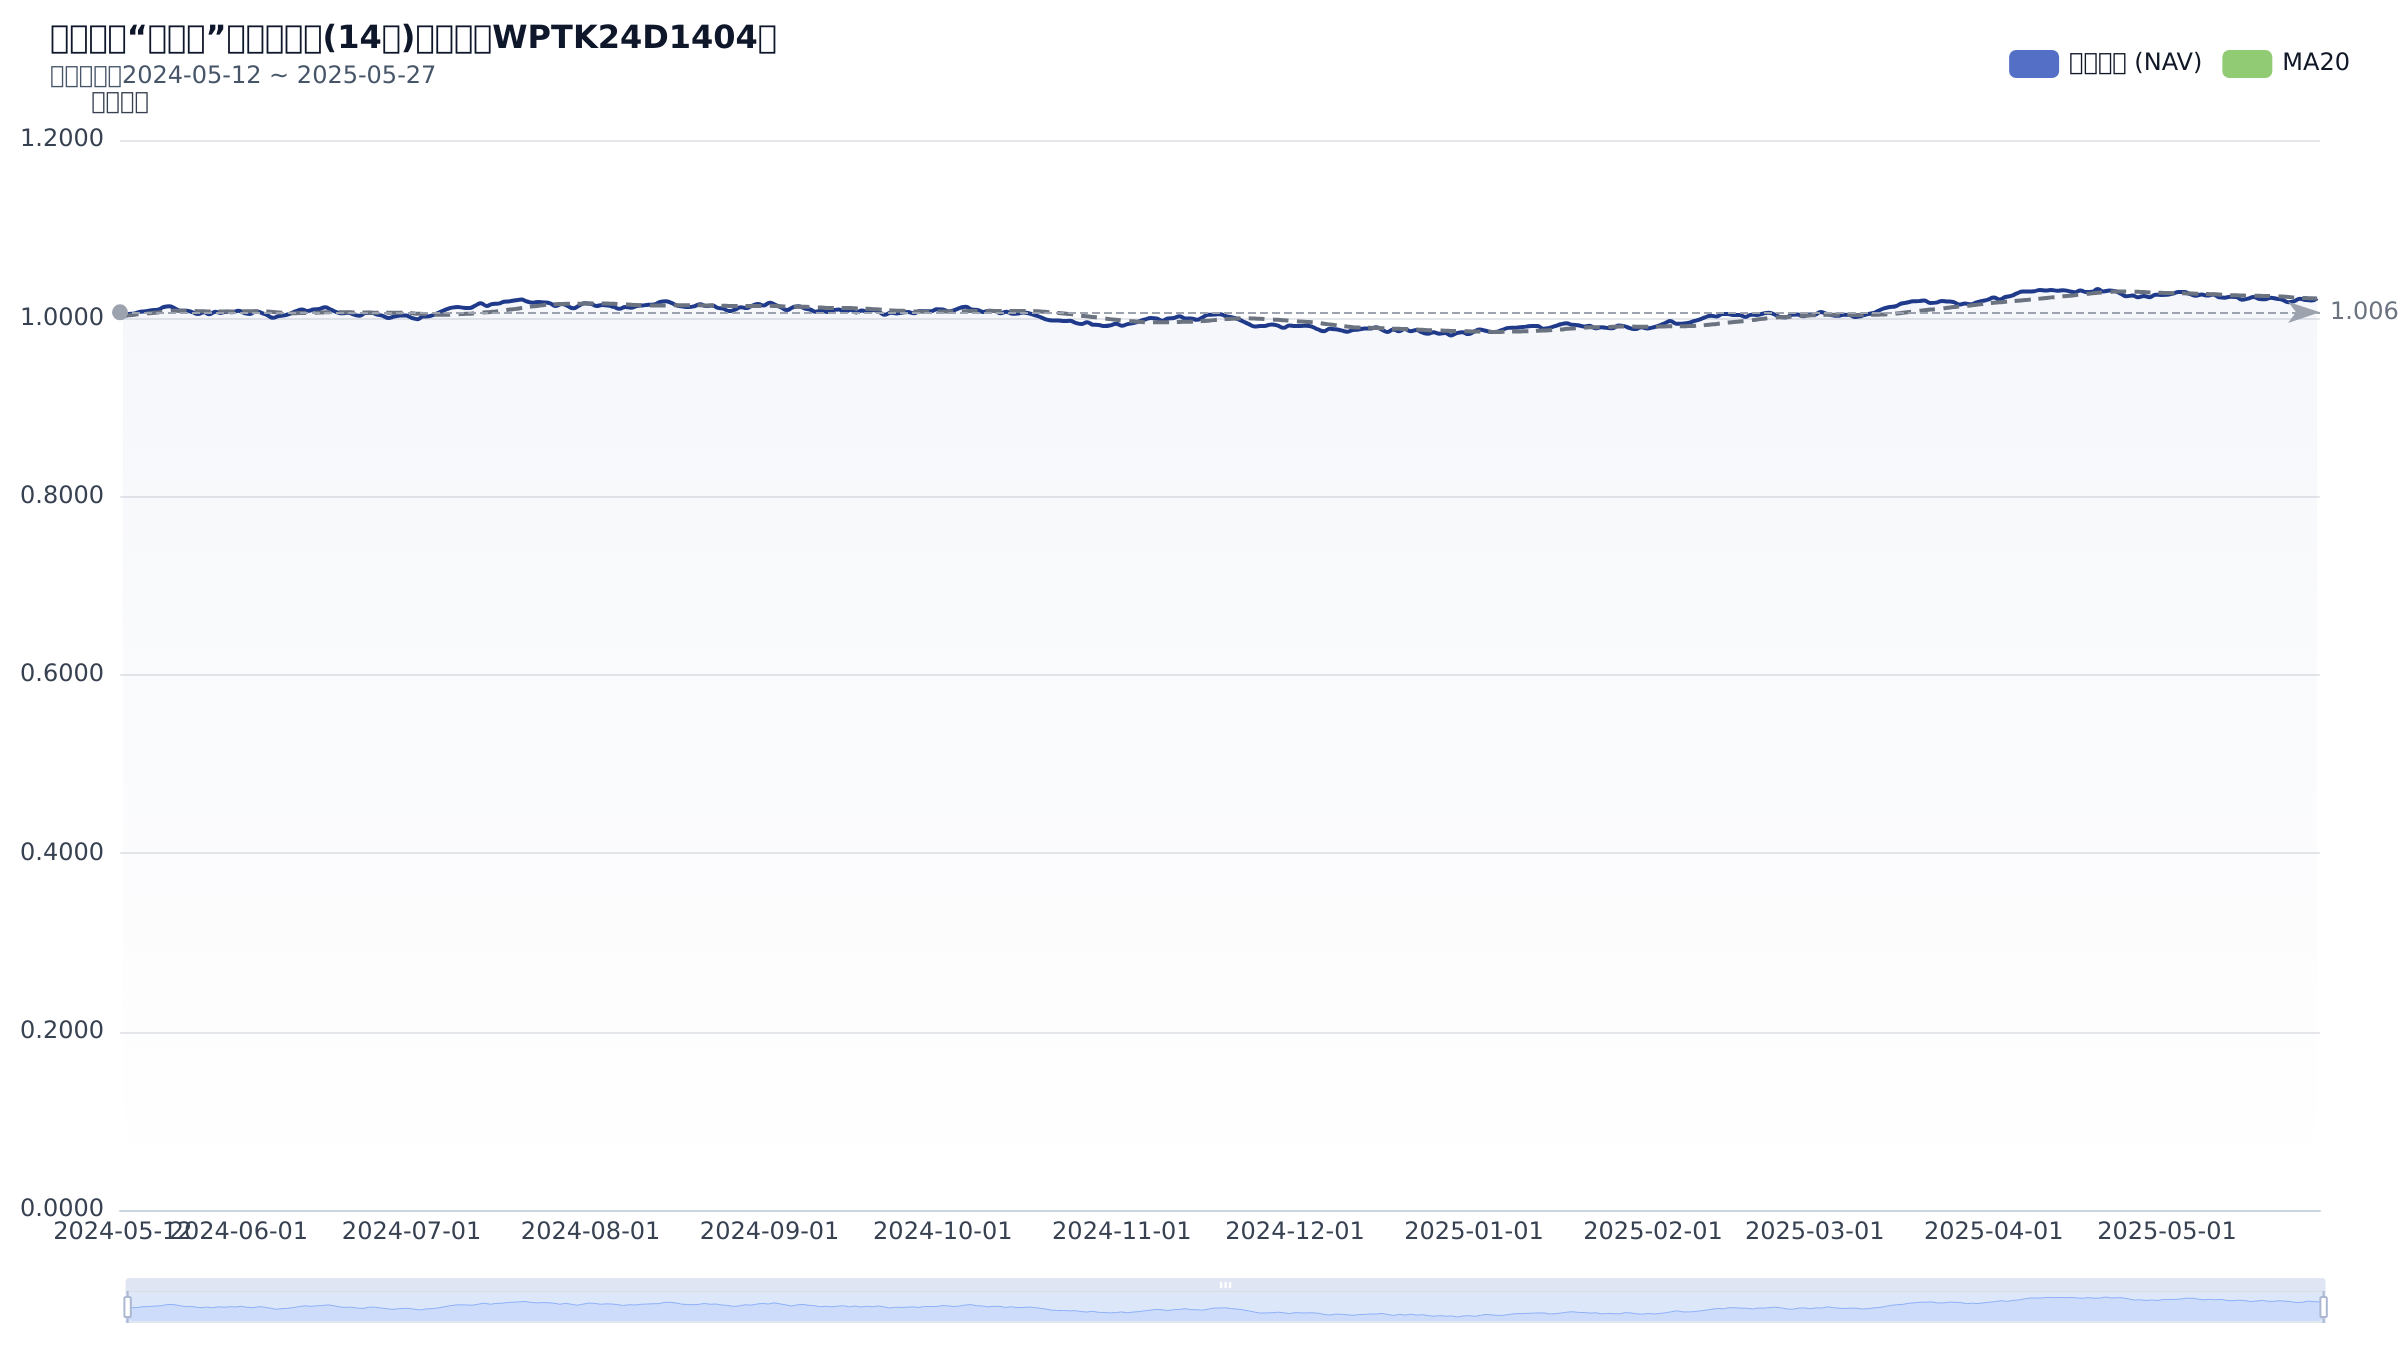
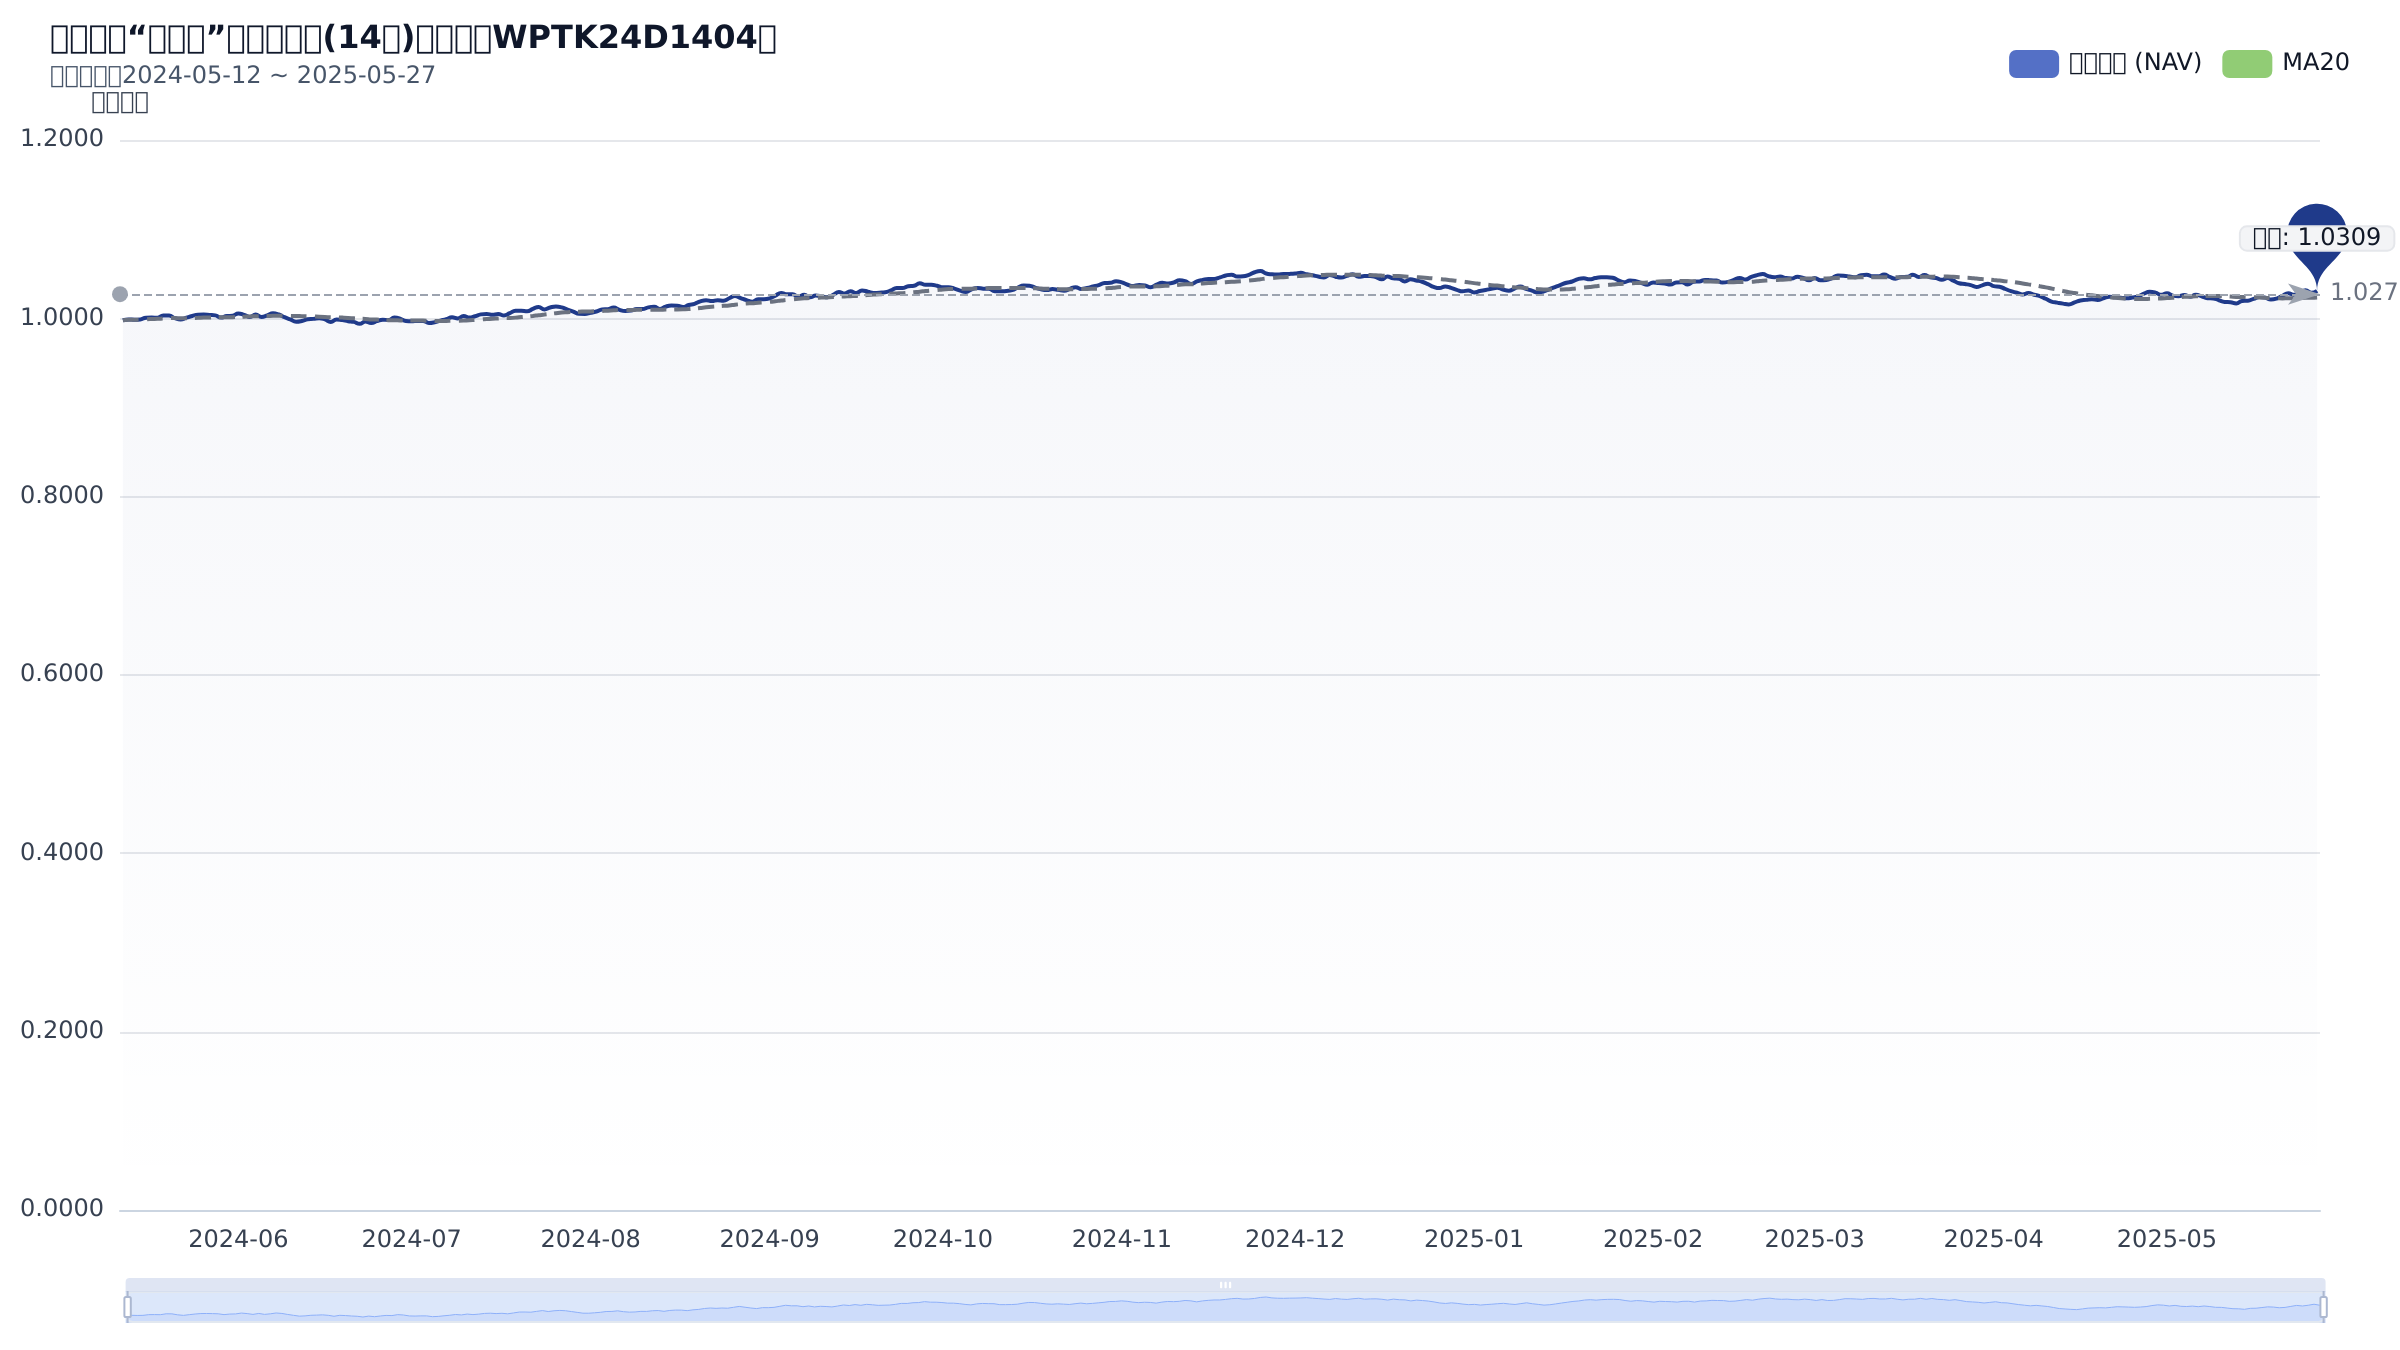
fix(fund_nav): monthly-first tick formatter; font readiness before capture; avoid origin tick clutter

diff --git a/scripts/render_fund_chart.js b/scripts/render_fund_chart.js
@@ -22,7 +22,7 @@ const puppeteer = require('puppeteer');
     function genSeriesByDates(dates, base, vol){ const arr=[]; let v=base; for(let i=0;i<dates.length;i++){ v=v*(1+(Math.random()-0.5)*vol); if(v<0.6) v = 0.6 + Math.random()*0.05; arr.push(Number(v.toFixed(4))); } return arr; }
     function ma(data, w){ const out=[]; for(let i=0;i<data.length;i++){ const s=Math.max(0,i-w+1); const seg=data.slice(s,i+1); const m=seg.reduce((a,b)=>a+b,0)/seg.length; out.push(Number(m.toFixed(4))); } return out; }
     function daterange(start, end){ const out=[]; const s=new Date(start), e=new Date(end); for(let d=new Date(s); d<=e; d.setDate(d.getDate()+1)){ out.push(d.toISOString().slice(0,10)); } return out; }
-    function monthTicks(labels){ const out=[]; let lastMonth=''; for(const d of labels){ const m=d.slice(0,7); if(m!==lastMonth){ out.push(d); lastMonth=m; } else out.push(''); } return out; }
+    // 使用完整日期作为类目，配合 formatter 仅在每月首日显示 YYYY-MM
     const productTitle = '上银理财“\u53cc周利”系列开放式(14天)理财产品WPTK24D1404期';
     const rangeText = '净值日期：2024-05-12 ~ 2025-05-27';
     const days = daterange('2024-05-12','2025-05-27');
@@ -38,7 +38,12 @@ const puppeteer = require('puppeteer');
       grid:{ left:60,right:40,top:70,bottom:70 },
       legend:{ data:['单位净值 (NAV)','MA20'], top: 20, right: 20, textStyle:{ color:'#111827' }, icon:'roundRect' },
       dataZoom:[{type:'inside'},{type:'slider',height:16,bottom:20,backgroundColor:'#f1f5f9', borderColor:'#e2e8f0'}],
-      xAxis:{ type:'category', data: monthTicks(days), axisLabel:{ color:'#374151', interval: 0, rotate: 0 }, axisLine:{ lineStyle:{ color:'#cbd5e1' } }, axisTick:{ show:false } },
+      xAxis:{ type:'category', data: days, boundaryGap: true,
+        axisLabel:{ color:'#374151', interval: 0, rotate: 0, margin: 12, hideOverlap: true,
+          showMinLabel: true, showMaxLabel: true,
+          formatter: function(value, idx){ return value && value.slice(8,10)==='01' ? value.slice(0,7) : ''; }
+        },
+        axisLine:{ lineStyle:{ color:'#cbd5e1' } }, axisTick:{ show:false } },
       yAxis:{ type:'value', name:'单位净值', nameTextStyle:{ color:'#374151' }, axisLabel:{ color:'#374151', formatter:(val)=> Number(val).toFixed(4) }, splitLine:{ lineStyle:{ color:'#e5e7eb' } } },
       series:[
         { name:'单位净值 (NAV)', type:'line', data:nav, symbol:'none', smooth:true, lineStyle:{ color:'#1f3a8a', width:2 }, areaStyle:{ color:faintArea }, 
@@ -49,7 +54,11 @@ const puppeteer = require('puppeteer');
       ]
     };
     chart.setOption(option);
-    window.chartReady=true;
+    if (document.fonts && document.fonts.ready) {
+      document.fonts.ready.then(function(){ chart.resize(); window.chartReady = true; });
+    } else {
+      window.chartReady = true;
+    }
   })();
   </script></body></html>`;
 
